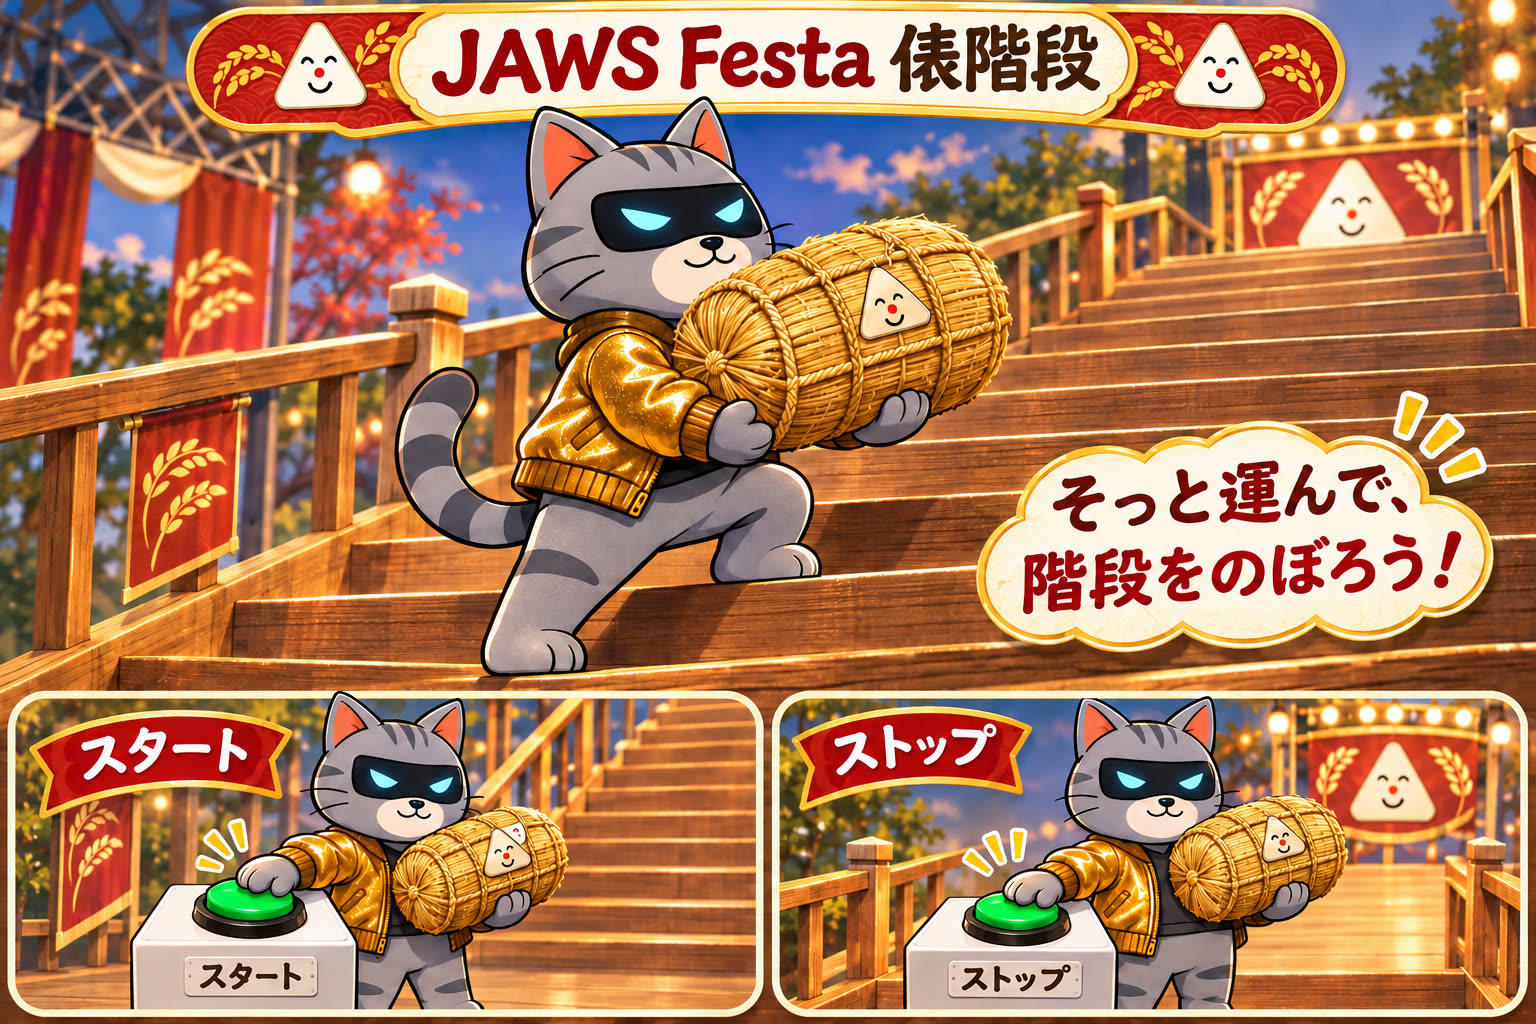
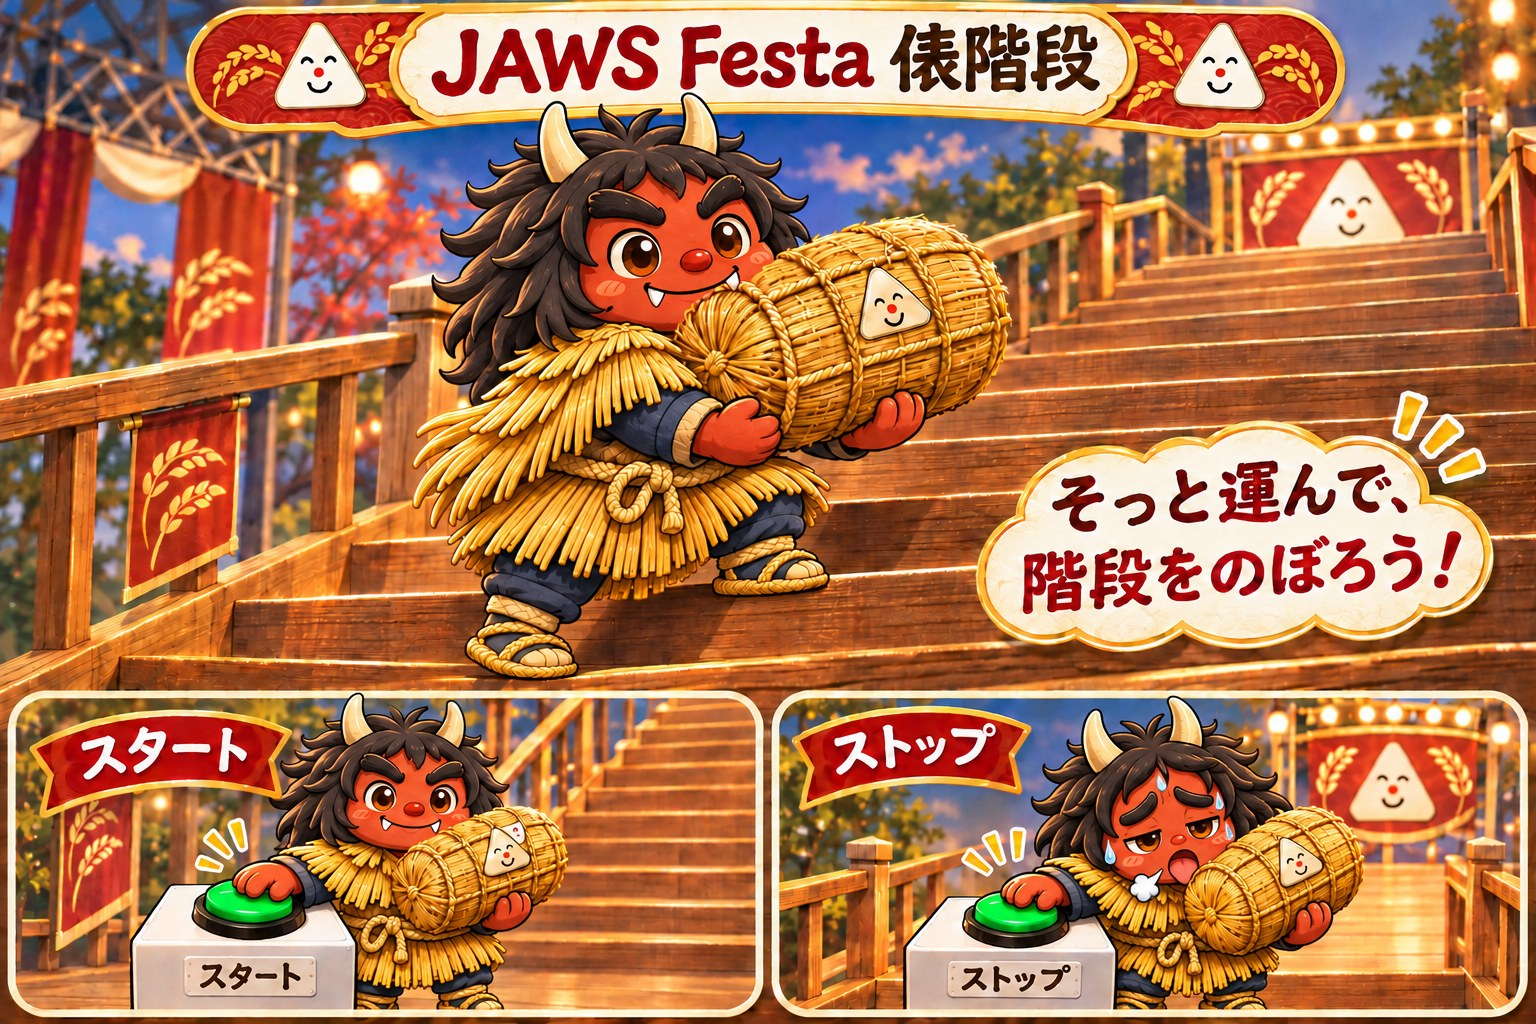
階段の説明画像をナマハゲのイラストに差し替え

diff --git a/index.html b/index.html
@@ -268,7 +268,7 @@
     <h2>全体の流れ</h2>
     <div class="media-pair">
     <figure class="movie">
-      <img class="pic" src="img/stairs.jpg" alt="米俵をかかえて階段をのぼる猫のイラスト。「そっと運んで、階段をのぼろう！」の文字と、スタートとストップのボタンを押す場面">
+      <img class="pic" src="img/stairs.jpg" alt="米俵をかかえて階段をのぼるナマハゲのイラスト。「そっと運んで、階段をのぼろう！」の文字と、スタートとストップのボタンを押す場面">
       <figcaption>スタートのボタンを押し、米俵をそっと運んで階段をのぼり、ストップのボタンを押します</figcaption>
     </figure>
     <figure class="movie tall">
